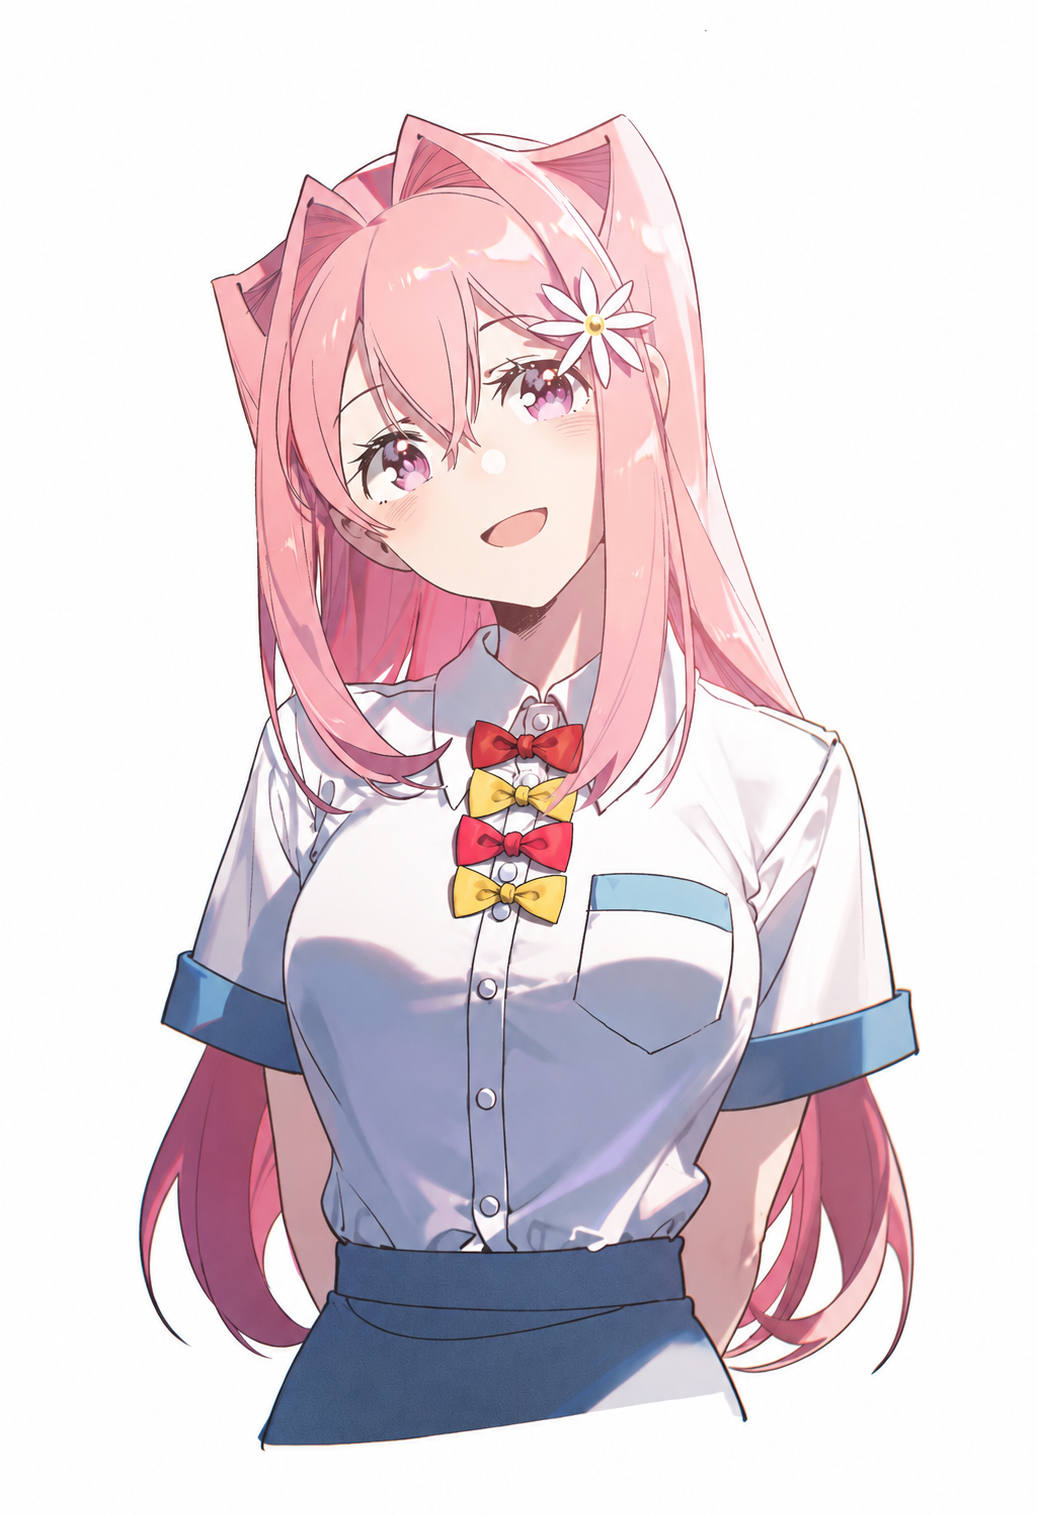
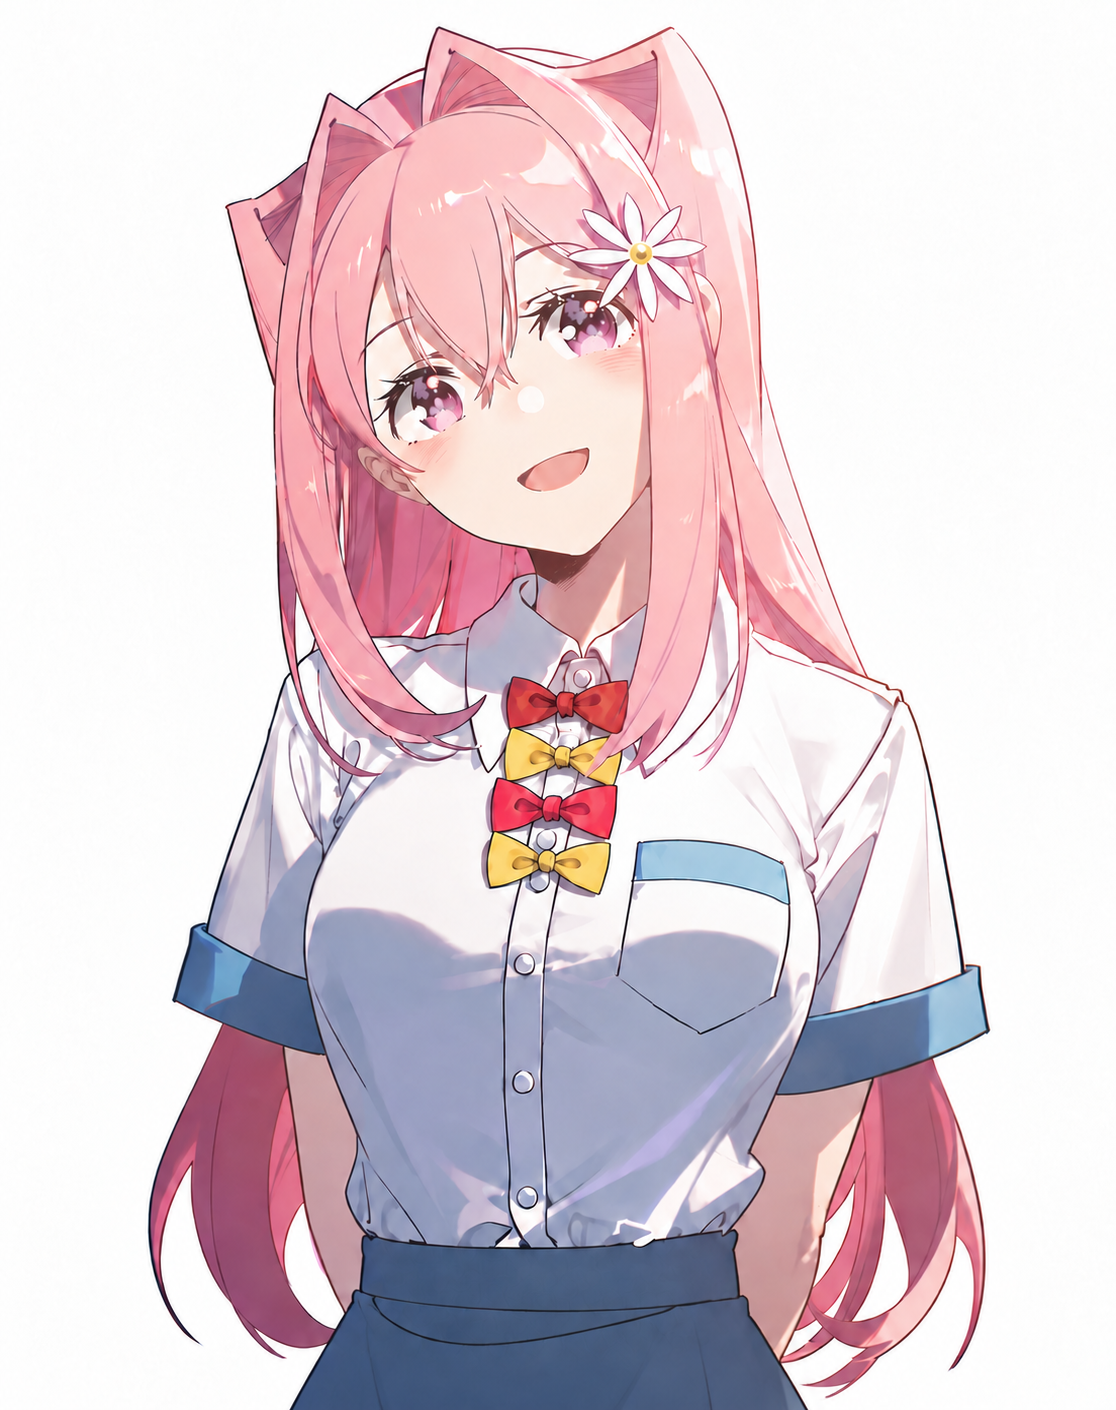
Update 姬宫华恋 default portrait

Changed region(s): [[0.1234, 0.0, 0.8949, 1.0], [0.5554, 0.4057, 0.5863, 0.4369], [0.1543, 0.9362, 0.1851, 0.9674]]

diff --git a/images/portraits/makeine/himemiya-karen/README.md b/images/portraits/makeine/himemiya-karen/README.md
@@ -1,9 +1,9 @@
 # 姬宫华恋 · 常规立绘
 
 - 当前文件：[default.png](default.png)。
-- 用户选定原图：`himemiya-karen-bows-arms-edited.png`。
-- 尺寸：1037 × 1516；大小：1,426,732 字节。
[1 lines of base64/hex data omitted]
+- 用户选定原图：`himemiya-karen-ear-waist-edited.png`。
+- 尺寸：1116 × 1410；大小：1,642,826 字节。
[1 lines of base64/hex data omitted]
 - PNG 模型记录：未知。
 - 可读取的生成参数：seed 未知；steps 未知；scale 未知；cfg_rescale 未知；sampler 未知；noise_schedule 未知。
 - 上传保留用户选定修复成稿的完整字节；上传阶段未裁剪、缩放、抠图或重绘。
@@ -12,8 +12,8 @@
 
 ## 本次选定版本
 
-- 用户选定 Codex 内置图像工具的修复成稿：将四枚蝴蝶结集中到领口下方，修正为红黄红黄顺序；适度收细手臂并整理袖口衔接，保留背手姿态。
-- 保持原取景、头顶与两侧完整，不另行裁剪；原始输入图保留。
[1 lines of base64/hex data omitted]
-- 修复前模型：NovelAI Diffusion V5 0ADF9AB7；参数：seed 2093017718；steps 28；scale 6.0；cfg_rescale 0.0；sampler k_euler_ancestral；noise_schedule karras。
-- 当前修复成稿未提供可读取的模型版本与 seed；修复前 NovelAI 参数不能直接复现编辑后的成稿。
+- 用户选定 Codex 内置 image_gen 修复成稿：进一步缩小脸侧露出的耳廓，修顺鬓发遮挡；修正腰部水平取景，去除衣身下方的斜切边与白色空隙。
+- 保留偏头姿势、头顶发束、花饰、红黄红黄四枚集中排列的蝴蝶结及背手姿态。
+- 当前成稿为 1116 × 1410，上传时保留完整字节。原始输入及中间修复稿保留。
+- 具体编辑模型版本与 seed 未提供；此前 NovelAI 参数不能直接复现该局部修复成稿。
+- 当前 default.png 已由本版替换，先前线上版本保留在 Git 历史中。
